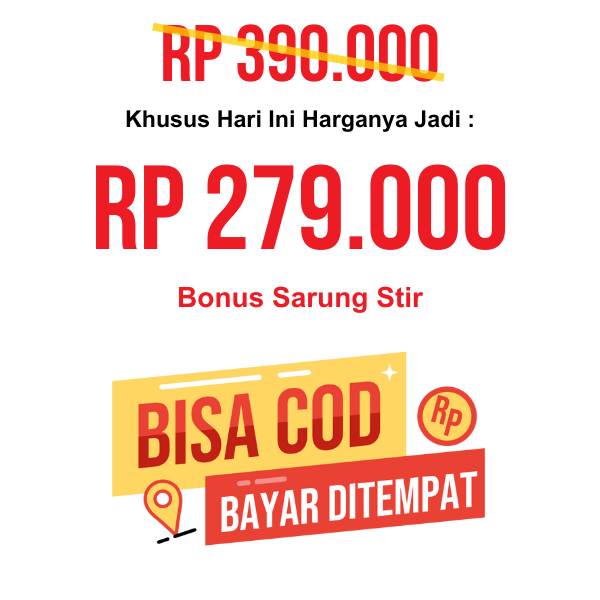
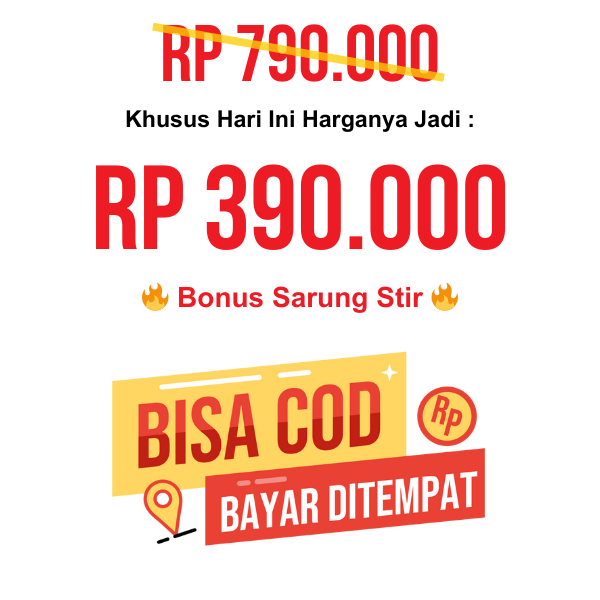
fix

diff --git a/src/components/Pel/Pel.jsx b/src/components/Pel/Pel.jsx
@@ -32,9 +32,7 @@ const Pel = () => {
           <br />
 
           <div className="text-3xl">
-            <p>
-              INILAH SARUNG JOK PICKUP & TRUK YANG AWET HINGGA 3 TAHUN
-            </p>
+            <p>INILAH SARUNG JOK PICKUP & TRUK YANG AWET HINGGA 3 TAHUN</p>
           </div>
           <br />
           <br />
@@ -102,12 +100,7 @@ const Pel = () => {
           <p className=" text-center font-bold text-2xl m-2">
             KALAU IYA, ANDA TIDAK PERLU KHAWATIR LAGI!
           </p>
-          <img
-            src="images/2.webp"
-            alt="jok"
-            width="640"
-            height="360"
-          />
+          <img src="images/2.webp" alt="jok" width="640" height="360" />
           <br />
           {/* <p>
             Karena dengan "Pel Anti Pegal", Anda tidak perlu lagi capek & pegal
@@ -167,6 +160,18 @@ const Pel = () => {
         <br />
         <br />
 
+        <div className="grid justify-center items-center m-2">
+          <br />
+          <img src="images/1.webp" alt="promo" width="640" height="360" />
+          <br />
+          <img src="images/2.webp" alt="promo" width="640" height="360" />
+          <br />
+          <img src="images/3.webp" alt="promo" width="640" height="360" />
+        </div>
+
+          <br />
+          <br />
+          <br />
         <div>
           <div className="grid justify-center items-center m-2">
             <h1 className="font-bold text-center text-4xl">TESTIMONI</h1>
@@ -189,20 +194,16 @@ const Pel = () => {
               width="640"
               height="360"
             />
-							<br />
+            <br />
             <img
               src="images/diskonspesial.webp"
               alt="promo"
               width="640"
               height="360"
             />
-            <img
-              src="images/offer.webp"
-              alt="promo"
-              width="640"
-              height="360"
-            />
+            <img src="images/offer.webp" alt="promo" width="640" height="360" />
           </div>
+          <br />
           <div className="p-4 bg-yellto text-center">
             <p className="font-bold">Promo Akan Berakhir Dalam : </p>
             <CountdownTimer hours={1} minutes={0} seconds={0} />

diff --git a/src/components/FunnelAtc.jsx b/src/components/FunnelAtc.jsx
@@ -20,7 +20,7 @@ const FunnelAtc = () => {
       fbq("track", "AddToCart", {
         content_name: bundleTitle,
         content_category: "Product Bundle",
-        value: 157000, // Example: You can adjust the value based on your bundle price
+        value: 390000, // Example: You can adjust the value based on your bundle price
         currency: "IDR",
       });
     }
@@ -56,8 +56,8 @@ const FunnelAtc = () => {
       title: "Cover Sarung Jok",
       description: "Bonus 1 Sarung Stir",
       isRecommended: false,
-      price: 479000,
-      isPrice: 279000,
+      price: 790000,
+      isPrice: 390000,
     },
     
   ];
